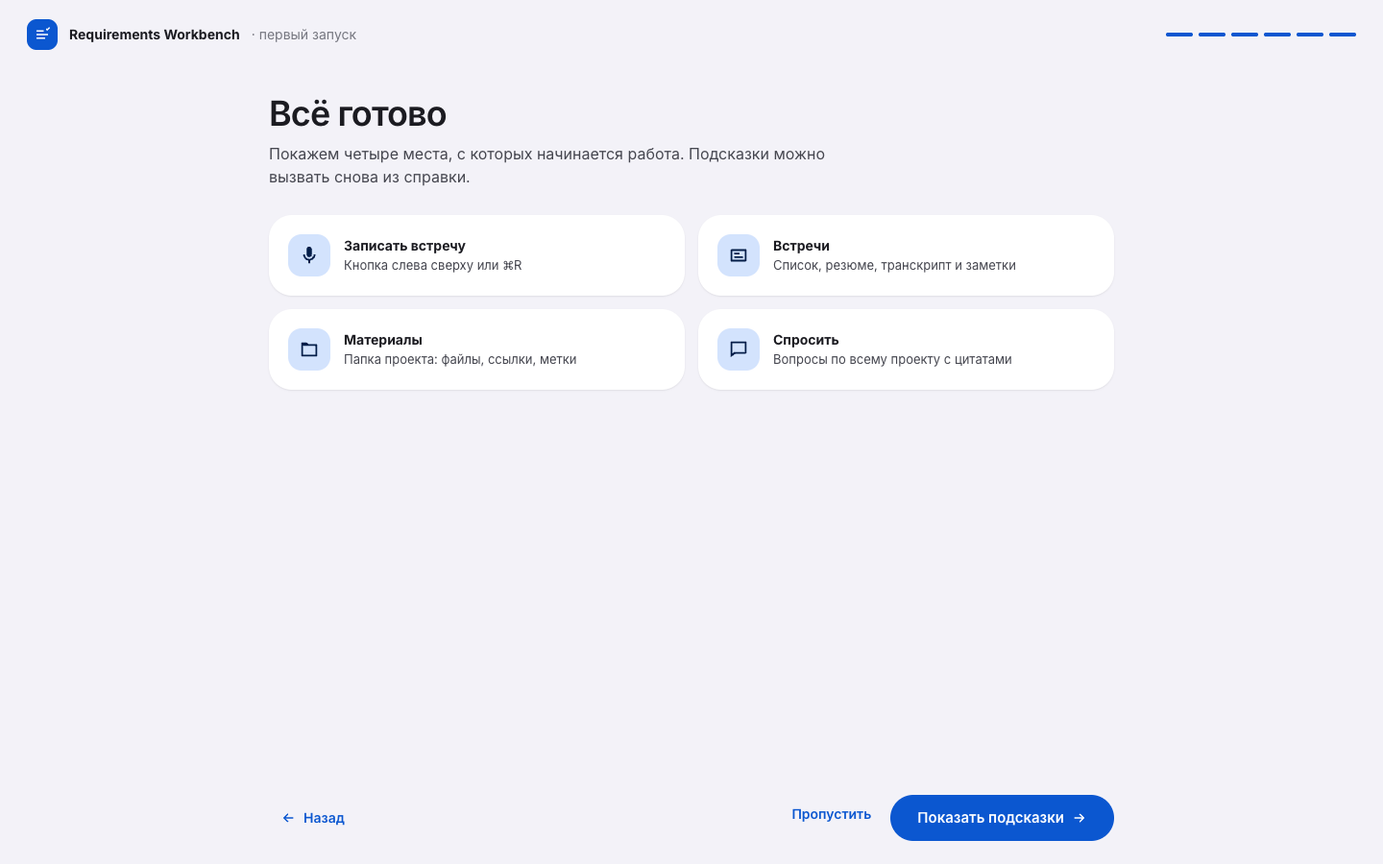
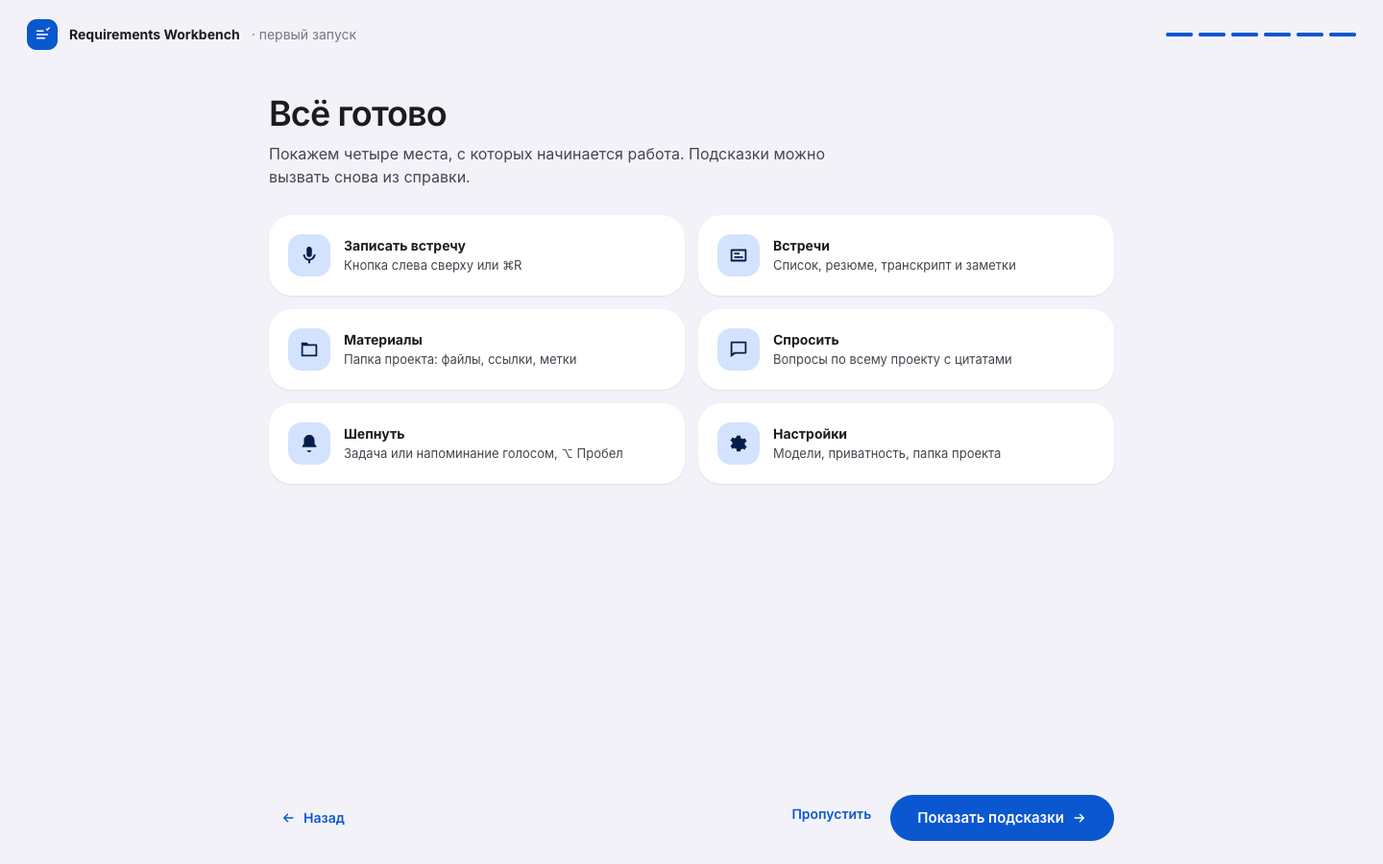
docs(design): Шепнуть voice inbox in the 5.0 brief and prototype

Changed region(s): [[0.1875, 0.4667, 0.4375, 0.56], [0.5, 0.4667, 0.7188, 0.56]]

diff --git a/docs/design/prototype-v5.html b/docs/design/prototype-v5.html
@@ -266,6 +266,39 @@ svg { flex: none; }
 .link:hover { background: var(--surface-2); }
 .link .wl { color: var(--primary); font-weight: 500; }
 
+
+/* ---------- Whisper ---------- */
+.whisper { display: grid; grid-template-columns: minmax(0, 1fr) minmax(360px, 38%); gap: 16px; height: 100%; }
+.wcap { display: flex; flex-direction: column; align-items: center; justify-content: center; padding: 32px; text-align: center; position: relative; min-height: 0; }
+.wbtn { width: 112px; height: 112px; border-radius: 56px; background: var(--primary); color: var(--on-primary); display: grid; place-items: center; box-shadow: var(--shadow-2); transition: transform .15s, background .15s; }
+.wbtn:hover { transform: scale(1.04); }
+.wbtn.live { background: var(--rec); color: #fff; animation: wpulse 1.4s infinite; }
+@keyframes wpulse { 0%,100% { box-shadow: 0 0 0 0 rgba(217,48,37,.35), var(--shadow-2);} 50% { box-shadow: 0 0 0 22px rgba(217,48,37,0), var(--shadow-2);} }
+.wcap h2 { font-size: 22px; font-weight: 600; letter-spacing: -.015em; margin-top: 24px; }
+.wcap .hint { color: var(--text-3); margin-top: 6px; font-size: 13px; }
+.wlive { margin-top: 24px; max-width: 560px; font-size: 18px; line-height: 28px; color: var(--text); min-height: 56px; }
+.wlive .cursor { display: inline-block; width: 2px; height: 20px; background: var(--primary); vertical-align: -3px; margin-left: 2px; animation: blink 1s steps(2) infinite; }
+@keyframes blink { 50% { opacity: 0; } }
+.wres { width: min(620px, 100%); text-align: left; margin-top: 8px; display: grid; gap: 12px; animation: fade .25s; }
+.wres .said { color: var(--text-2); font-size: 15px; line-height: 23px; padding: 14px 18px; border-radius: 16px; background: var(--surface-2); }
+.wres .said small { display: block; color: var(--text-3); font-size: 12px; margin-bottom: 4px; }
+.wparsed { border-radius: 20px; background: var(--surface); box-shadow: inset 0 0 0 2px var(--primary-c); padding: 16px 18px; display: grid; gap: 10px; }
+.wparsed .types { display: flex; gap: 6px; flex-wrap: wrap; }
+.wparsed .title { font-size: 17px; font-weight: 600; outline: none; border-radius: 6px; }
+.wparsed .title:focus { box-shadow: 0 0 0 2px var(--primary); padding: 0 4px; }
+.wparsed .meta { display: flex; gap: 8px; flex-wrap: wrap; align-items: center; color: var(--text-2); font-size: 13px; }
+.wparsed .acts { display: flex; gap: 8px; margin-top: 4px; }
+.wkind { width: 36px; height: 36px; border-radius: 12px; display: grid; place-items: center; flex: none; }
+.wkind.task { background: var(--primary-c); color: var(--on-primary-c); } .wkind.note { background: var(--warn-c); color: var(--warn); } .wkind.remind { background: var(--danger-c); color: var(--danger); } .wkind.idea { background: var(--ok-c); color: var(--ok); }
+.winbox { display: flex; flex-direction: column; min-height: 0; }
+.wsec { font-size: 11px; font-weight: 600; letter-spacing: .06em; text-transform: uppercase; color: var(--text-3); padding: 14px 16px 6px; }
+.witem { display: grid; grid-template-columns: auto 36px minmax(0, 1fr); gap: 12px; align-items: start; padding: 10px 16px; margin: 0 8px; border-radius: 14px; cursor: pointer; }
+.witem:hover { background: var(--surface-2); }
+.witem .cb { margin-top: 9px; } .witem .cb.none { visibility: hidden; }
+.witem .tx { line-height: 20px; } .witem.done .tx { color: var(--text-3); text-decoration: line-through; }
+.witem .m { color: var(--text-3); font-size: 12px; margin-top: 2px; display: flex; gap: 8px; flex-wrap: wrap; }
+.witem .m .due { color: var(--danger); font-weight: 500; } .witem .m .due.ok { color: var(--ok); }
+
 /* ---------- Ask ---------- */
 .ask { display: grid; grid-template-columns: minmax(0, 1fr) 300px; gap: 14px; height: 100%; }
 .chat { display: flex; flex-direction: column; min-height: 0; }
@@ -366,8 +399,9 @@ svg { flex: none; }
   .page-head .actions .outlined, .topbar .status-chip span + *, .topbar .icon-btn[title^="Справка"] { display: none; }
   .status-chip { font-size: 0; gap: 0; padding: 0 10px; } .status-chip .ring { width: 18px; height: 18px; }
   .page-head h1 { font-size: 26px; line-height: 32px; }
-  .meetings, .library, .sess-body, .ask, .settings, .panels { grid-template-columns: 1fr; grid-template-rows: none; }
+  .meetings, .library, .sess-body, .ask, .settings, .panels, .whisper { grid-template-columns: 1fr; grid-template-rows: none; }
   .meetings > .panel, .library > .panel, .ask > .hist, .library .tree, .settings .setnav { display: none; }
+  .whisper .wcap { min-height: 360px; }
   .search { min-width: 0; }
   .onb-top, .onb-body, .onb-bot { padding-left: 16px; padding-right: 16px; }
   .q-card { left: 16px; right: 16px; width: auto; }
@@ -435,6 +469,17 @@ const FILES = [
   { id: 8, name: "FR-12 Проверка дублей по VIN и телефону", ext: "md", folder: "Требования", labels: [], imported: "14 окт", changed: "5 мин назад", size: "1 КБ", ctx: true, back: ["[[Встречи/2026-10-14 Звонок]]", "[[ТЗ v3]]"], preview: "---\nid: FR-12\ntype: functional\nstatus: accepted\nsource: [[Встречи/2026-10-14 Звонок]]\n---\nСистема проверяет VIN и телефон клиента при создании заявки…" },
 ];
 
+
+const WHISPERS = [
+  { id: 1, kind: "task", text: "Отправить Олегу регламент v2 и спросить про утверждение статусов", when: "Сегодня", due: "до 18:00", done: false, project: "Портал дилера" },
+  { id: 2, kind: "remind", text: "Позвонить в дилерский центр насчёт демо", when: "Сегодня", due: "завтра, 10:00", done: false, project: "" },
+  { id: 3, kind: "note", text: "Мысль: конфликт по SLA (2 ч и 4 ч) лучше вынести отдельным вопросом в протокол, а не прятать в ТЗ", when: "Сегодня", due: "", done: false, project: "Портал дилера" },
+  { id: 4, kind: "idea", text: "Для воркшопов делать шаблон «боль → причина → ожидание» прямо в заметках встречи", when: "Вчера", due: "", done: false, project: "" },
+  { id: 5, kind: "task", text: "Проверить, что Jira-токен не протух перед выгрузкой бэклога", when: "Вчера", due: "вчера", done: true, project: "Портал дилера" },
+  { id: 6, kind: "task", text: "Купить переходник USB-C для диктофона", when: "Раньше", due: "", done: true, project: "" },
+];
+const WKIND = { task: ["Задача", "check"], note: ["Заметка", "edit"], remind: ["Напоминание", "bell"], idea: ["Идея", "bolt"] };
+
 /* ---------- State ---------- */
 const S = {
   page: "meetings", theme: localStorage.getItem("wb5.theme") || "", onb: 0, tut: 0,
@@ -443,6 +488,7 @@ const S = {
   paused: false, secs: 1935, qcard: true, notes: "- Дубли заявок: VIN + телефон\n- SLA 2 часа (!)\n- Кто утверждает статус? → уточнить у Олега\n- История изменений",
   perms: { mic: true, sys: false, notif: false }, model: "e4b", dl: 0, disc: { 1: true, 2: true, 3: false },
   setsec: "models", ctxOnly: true, toast: "",
+  wstate: "idle", wtext: "", wkind: "task", wfilter: "all",
 };
 try { if (!localStorage.getItem("wb5.seen")) S.onb = 1; } catch (_) {}
 function theme() { document.documentElement.dataset.theme = S.theme; }
@@ -458,7 +504,7 @@ const fmtSecs = n => `${String(Math.floor(n / 60)).padStart(2, "0")}:${String(n 
 /* ---------- Shell ---------- */
 const NAV = [
   ["meetings", "meet", "Встречи"], ["library", "lib", "Материалы"], ["requirements", "req", "Требования", { badge: 9 }],
-  ["documents", "doc", "Документы", { dot: true }], ["backlog", "tree", "Бэклог"], ["ask", "chat", "Спросить"],
+  ["documents", "doc", "Документы", { dot: true }], ["backlog", "tree", "Бэклог"], ["ask", "chat", "Спросить"], ["whisper", "mic", "Шепнуть"],
 ];
 function shell(content) {
   const act = S.page === "session" ? "meetings" : S.page;
@@ -467,7 +513,7 @@ function shell(content) {
     <nav class="rail" aria-label="Разделы">
       <div class="logo" title="Requirements Workbench">${ic("req", 22)}</div>
       <button class="rec-fab" id="t-rec" title="Записать встречу (⌘R)" onclick="S.page='session';S.paused=false;go('session')"><span class="dot"></span></button>
-      ${NAV.map(([p, i, l, o = {}]) => html`<button class="nav-item ${act === p ? "active" : ""} ${["backlog", "documents"].includes(p) ? "opt" : ""}" id="t-${p}" onclick="go('${p}')">
+      ${NAV.map(([p, i, l, o = {}]) => html`<button class="nav-item ${act === p ? "active" : ""} ${["backlog", "documents", "ask"].includes(p) ? "opt" : ""}" id="t-${p}" onclick="go('${p}')">
         <span class="pill">${ic(i, 22)}</span>${l}${o.badge ? `<span class="badge">${o.badge}</span>` : ""}${o.dot ? `<span class="dotb"></span>` : ""}</button>`).join("")}
       <span class="spacer"></span>
       <button class="nav-item ${act === "settings" ? "active" : ""}" onclick="go('settings')"><span class="pill">${ic("set", 22)}</span>Настройки</button>
@@ -643,6 +689,57 @@ function pageLibrary() {
   </div>`;
 }
 
+
+/* ---------- Whisper: press, speak, get a task / note / reminder. Never touches requirements. ---------- */
+const WSAMPLE = "Напомни завтра в десять позвонить Ирине насчёт истории изменений заявки, и ещё надо отправить Олегу регламент до вечера";
+function pageWhisper() {
+  const items = WHISPERS.filter(w => S.wfilter === "all" || (S.wfilter === "open" ? (w.kind === "task" || w.kind === "remind") && !w.done : w.kind === S.wfilter));
+  const groups = ["Сегодня", "Вчера", "Раньше"].map(g => [g, items.filter(w => w.when === g)]).filter(([, l]) => l.length);
+  const cap = S.wstate === "idle" ? html`
+      <button class="wbtn" onclick="wStart()" title="Говорите (⌥ Пробел)">${ic("mic", 44)}</button>
+      <h2>Нажмите и скажите, что нужно сделать</h2>
+      <p class="hint">Задача, заметка, напоминание или идея — Workbench распознает речь на этом Mac и сам поймёт, что это.<br>Из любого окна: <span class="kbd">⌥ Пробел</span> · из строки меню: значок микрофона</p>`
+    : S.wstate === "listening" ? html`
+      <button class="wbtn live" onclick="wStop()" title="Готово">${ic("stop", 40)}</button>
+      <h2>Слушаю…</h2><p class="hint">Нажмите ещё раз, когда закончите. Пауза в две секунды тоже остановит запись.</p>
+      <div class="wlive"><span id="wlive">${S.wtext}</span><span class="cursor"></span></div>`
+    : html`
+      <div class="wres">
+        <div class="said"><small>Вы сказали · 0:07 · GigaAM, локально</small>${S.wtext}</div>
+        <div class="wparsed">
+          <div class="types">${Object.entries(WKIND).map(([k, [l, i]]) => `<span class="chip sm ${S.wkind === k ? "on" : ""}" onclick="S.wkind='${k}';render()">${ic(i, 14)} ${l}</span>`).join("")}</div>
+          <div class="title" contenteditable="true" spellcheck="false">Позвонить Ирине насчёт истории изменений заявки</div>
+          <div class="meta"><span class="tag danger">${ic("bell", 12)} завтра, 10:00</span><span class="tag">Портал дилера</span><span class="t3">· проект угадан по словам «заявки» и «Ирина»</span></div>
+          <div class="meta t3" style="font-size:12px">${ic("plus", 12)} Ещё одно в этой же фразе: <b class="t2">Задача · отправить Олегу регламент · до 18:00</b> — создать обе</div>
+          <div class="acts"><button class="btn filled" onclick="wSave()">Сохранить 2 ${ic("check", 16)}</button><button class="btn" onclick="wStart()">${ic("mic", 16)} Переговорить</button><button class="btn text" onclick="S.wstate='idle';render()">Отменить</button></div>
+        </div>
+        <p class="t3" style="font-size:12px;text-align:center">Это личный ящик. В требования, документы и Jira отсюда ничего не попадает, пока вы сами не нажмёте «Сделать вопросом».</p>
+      </div>`;
+  return html`
+  ${head("Шепнуть", "Личный ящик: задачи, заметки и напоминания голосом · отдельно от требований", html`<div class="seg">${[["all", "Все"], ["open", "Открытые"], ["task", "Задачи"], ["note", "Заметки"], ["remind", "Напоминания"]].map(([k, l]) => `<button class="${S.wfilter === k ? "on" : ""}" onclick="S.wfilter='${k}';render()">${l}</button>`).join("")}</div>`)}
+  <div class="body whisper">
+    <div class="card wcap" id="t-whisper">${cap}</div>
+    <div class="card winbox">
+      <div class="list-tools"><label class="search sm grow">${ic("search", 16)}<input placeholder="Искать в ящике"></label><span class="t3" style="font-size:12px">${WHISPERS.filter(w => !w.done && w.kind !== "note" && w.kind !== "idea").length} открытых</span></div>
+      <div class="scroll grow" style="padding-bottom:8px">
+        ${groups.map(([g, l]) => `<div class="wsec">${g}</div>` + l.map(w => `<div class="witem ${w.done ? "done" : ""}">
+          <span class="cb ${w.done ? "on" : ""} ${w.kind === "note" || w.kind === "idea" ? "none" : ""}" onclick="WHISPERS.find(x=>x.id===${w.id}).done=!${w.done};render()">${w.done ? ic("check", 14) : ""}</span>
+          <span class="wkind ${w.kind}">${ic(WKIND[w.kind][1], 18)}</span>
+          <div><div class="tx">${w.text}</div><div class="m"><span>${WKIND[w.kind][0]}</span>${w.due ? `<span class="due ${w.done ? "ok" : ""}">${ic("bell", 11)} ${w.due}</span>` : ""}${w.project ? `<span>· ${w.project}</span>` : ""}<span class="grow"></span><span style="color:var(--primary);cursor:pointer" onclick="toast('Создан вопрос Q-10 в проекте «Портал дилера»')">Сделать вопросом</span></div></div>
+        </div>`).join("")).join("") || `<div class="empty">Пусто. Скажите что-нибудь.</div>`}
+      </div>
+    </div>
+  </div>`;
+}
+let wTimer = null;
+window.wStart = () => { clearTimeout(wTimer); S.wstate = "listening"; S.wtext = ""; render(); const words = WSAMPLE.split(" "); let i = 0;
+  const tick = () => { if (S.wstate !== "listening") return; S.wtext = words.slice(0, ++i).join(" "); const el = document.getElementById("wlive"); if (el) el.textContent = S.wtext; if (i < words.length) wTimer = setTimeout(tick, 170 + Math.random() * 120); else wTimer = setTimeout(wStop, 900); };
+  wTimer = setTimeout(tick, 500); };
+window.wStop = () => { clearTimeout(wTimer); S.wtext = S.wtext || WSAMPLE; S.wstate = "result"; S.wkind = "remind"; render(); };
+window.wSave = () => { WHISPERS.unshift({ id: Date.now(), kind: "task", text: "Отправить Олегу регламент", when: "Сегодня", due: "до 18:00", done: false, project: "Портал дилера" },
+  { id: Date.now() + 1, kind: "remind", text: "Позвонить Ирине насчёт истории изменений заявки", when: "Сегодня", due: "завтра, 10:00", done: false, project: "Портал дилера" });
+  S.wstate = "idle"; render(); toast("Сохранено: напоминание и задача · уведомление завтра в 10:00"); };
+
 /* ---------- Ask ---------- */
 function pageAsk() {
   return html`
@@ -712,7 +809,7 @@ function pageSettings() {
       <div class="row"><div class="l"><b>Микрофон</b><small>MacBook Pro Microphone</small></div><button class="btn sm">Сменить</button></div>
       <div class="row"><div class="l"><b>Останавливать при тишине</b><small>Через 10 минут без речи · с уведомлением</small></div><span class="switch on"></span></div>
       <div class="row"><div class="l"><b>Требования на лету</b><small>Извлекать требования из последних минут во время записи</small></div><span class="switch on"></span></div></div>`
-  : S.setsec === "keys" ? html`<div class="card setcard"><h3>Горячие клавиши</h3><div class="d">Дважды кликните, чтобы изменить</div>${[["Записать встречу", "⌘ R"], ["Показать окно", "⌘ ⇧ W"], ["Поиск по проекту", "⌘ K"], ["Спросить", "⌘ J"], ["Тема", "⌘ ⇧ L"]].map(([a, k]) => `<div class="row"><div class="l"><b>${a}</b></div><span class="kbd">${k}</span></div>`).join("")}</div>`
+  : S.setsec === "keys" ? html`<div class="card setcard"><h3>Горячие клавиши</h3><div class="d">Дважды кликните, чтобы изменить</div>${[["Записать встречу", "⌘ R"], ["Шепнуть", "⌥ Пробел"], ["Показать окно", "⌘ ⇧ W"], ["Поиск по проекту", "⌘ K"], ["Спросить", "⌘ J"], ["Тема", "⌘ ⇧ L"]].map(([a, k]) => `<div class="row"><div class="l"><b>${a}</b></div><span class="kbd">${k}</span></div>`).join("")}</div>`
   : html`<div class="card setcard"><h3>Jira</h3><div class="d">Вход через браузер, токены не хранятся в системной связке</div><div class="row"><div class="l"><b>sundocarme-1787295249165.atlassian.net</b><small>Проект SCRUM · подключено</small></div><button class="btn sm">Выйти</button></div></div>`;
   return html`${head("Настройки", "")}<div class="body settings"><div class="card setnav" style="padding:10px 8px;align-self:start">${secs.map(([k, i, l]) => `<div class="node ${S.setsec === k ? "on" : ""}" onclick="S.setsec='${k}';render()">${ic(i, 18)}${l}</div>`).join("")}</div><div class="setcards scroll">${body}</div></div>`;
 }
@@ -764,7 +861,7 @@ function onboarding() {
     next = `Добавить ${Object.values(S.disc).filter(Boolean).length} и продолжить`;
   } else {
     body = html`<h1>Всё готово</h1><p class="lead">Покажем четыре места, с которых начинается работа. Подсказки можно вызвать снова из справки.</p>
-    <div class="panels" style="grid-template-columns:repeat(2,1fr)">${[["mic", "Записать встречу", "Кнопка слева сверху или ⌘R"], ["meet", "Встречи", "Список, резюме, транскрипт и заметки"], ["lib", "Материалы", "Папка проекта: файлы, ссылки, метки"], ["chat", "Спросить", "Вопросы по всему проекту с цитатами"]].map(([i, t, d]) => `<div class="card" style="padding:20px;display:flex;gap:14px;align-items:center"><span style="width:44px;height:44px;border-radius:14px;background:var(--primary-c);color:var(--on-primary-c);display:grid;place-items:center">${ic(i, 22)}</span><div><b>${t}</b><div class="t2" style="font-size:13px">${d}</div></div></div>`).join("")}</div>`;
+    <div class="panels" style="grid-template-columns:repeat(2,1fr)">${[["mic", "Записать встречу", "Кнопка слева сверху или ⌘R"], ["meet", "Встречи", "Список, резюме, транскрипт и заметки"], ["lib", "Материалы", "Папка проекта: файлы, ссылки, метки"], ["chat", "Спросить", "Вопросы по всему проекту с цитатами"], ["bell", "Шепнуть", "Задача или напоминание голосом, ⌥ Пробел"], ["set", "Настройки", "Модели, приватность, папка проекта"]].map(([i, t, d]) => `<div class="card" style="padding:20px;display:flex;gap:14px;align-items:center"><span style="width:44px;height:44px;border-radius:14px;background:var(--primary-c);color:var(--on-primary-c);display:grid;place-items:center">${ic(i, 22)}</span><div><b>${t}</b><div class="t2" style="font-size:13px">${d}</div></div></div>`).join("")}</div>`;
     next = "Показать подсказки"; nextFn = "finishOnb(true)"; skip = `<button class="btn text" onclick="finishOnb(false)">Пропустить</button>`;
   }
   return html`<div class="onb"><div class="onb-top"><span style="width:32px;height:32px;border-radius:10px;background:var(--primary);color:var(--on-primary);display:grid;place-items:center">${ic("req", 18)}</span><b>Requirements Workbench</b><span class="t3">· первый запуск</span>${steps}</div>
@@ -775,7 +872,7 @@ window.dlTick = () => { if (S.onb !== 4 || S.dl >= 100) return; S.dl = Math.min(
 window.finishOnb = tut => { S.onb = 0; try { localStorage.setItem("wb5.seen", "1"); } catch (_) {} S.tut = tut ? 1 : 0; go("meetings"); render(); };
 
 /* ---------- Tutorial ---------- */
-const TUT = [["t-rec", "Записать встречу", "Одна кнопка: микрофон и системный звук пишутся раздельно, транскрипт и требования появляются по ходу встречи."], ["t-list", "Встречи", "Все записи, импорты и тексты проекта. Переименуйте прямо в списке, ищите по словам из разговора."], ["t-library", "Материалы", "Папка проекта на диске. Добавляйте документы и ссылки — ИИ будет их цитировать."], ["t-ask", "Спросить", "Вопрос по всему проекту: ответ с цитатами из встреч и файлов, всё считается локально."]];
+const TUT = [["t-rec", "Записать встречу", "Одна кнопка: микрофон и системный звук пишутся раздельно, транскрипт и требования появляются по ходу встречи."], ["t-whisper", "Шепнуть", "Скажите задачу, заметку или напоминание — они лягут в личный ящик и не смешаются с требованиями. ⌥ Пробел из любого окна."], ["t-list", "Встречи", "Все записи, импорты и тексты проекта. Переименуйте прямо в списке, ищите по словам из разговора."], ["t-library", "Материалы", "Папка проекта на диске. Добавляйте документы и ссылки — ИИ будет их цитировать."], ["t-ask", "Спросить", "Вопрос по всему проекту: ответ с цитатами из встреч и файлов, всё считается локально."]];
 function tutorial() {
   const [id, t, d] = TUT[S.tut - 1];
   const el = document.getElementById(id);
@@ -786,7 +883,7 @@ function tutorial() {
 }
 
 /* ---------- Router ---------- */
-const PAGES = { meetings: pageMeetings, session: pageSession, library: pageLibrary, ask: pageAsk, requirements: pageRequirements, documents: pageDocuments, backlog: pageBacklog, settings: pageSettings };
+const PAGES = { meetings: pageMeetings, session: pageSession, library: pageLibrary, ask: pageAsk, whisper: pageWhisper, requirements: pageRequirements, documents: pageDocuments, backlog: pageBacklog, settings: pageSettings };
 function render() {
   const h = location.hash.replace("#", "") || "meetings";
   if (h === "onboarding") { S.onb = S.onb || 1; }
@@ -799,7 +896,8 @@ function render() {
 addEventListener("hashchange", () => { if (location.hash === "#onboarding") S.onb = 1; render(); });
 addEventListener("resize", () => { if (S.tut) render(); });
 addEventListener("keydown", e => {
-  if ((e.metaKey || e.ctrlKey) && e.key >= "1" && e.key <= "8") { e.preventDefault(); go(["meetings", "library", "requirements", "documents", "backlog", "ask", "settings", "session"][+e.key - 1]); }
+  if ((e.metaKey || e.ctrlKey) && e.key >= "1" && e.key <= "9") { e.preventDefault(); go(["meetings", "library", "requirements", "documents", "backlog", "ask", "settings", "session", "whisper"][+e.key - 1]); }
+  if (e.altKey && e.code === "Space") { e.preventDefault(); go("whisper"); setTimeout(() => wStart(), 50); }
   if ((e.metaKey || e.ctrlKey) && e.shiftKey && e.key.toLowerCase() === "l") { e.preventDefault(); S.theme = S.theme === "dark" ? "light" : "dark"; localStorage.setItem("wb5.theme", S.theme); theme(); }
   if (e.key === "Escape" && S.tut) { S.tut = 0; render(); }
 });

diff --git a/docs/design/v5-foresight.md b/docs/design/v5-foresight.md
@@ -136,7 +136,34 @@ Code: `core/vault.py` (layout, writers, watcher), `core/index.py` (FTS5 + local 
 the existing local LLM runtime), routes `/api/projects/<id>/vault/*`, `/api/ask`, a `Library.svelte`
 and `Ask.svelte`.
 
-## 5. Order of work
+## 5. Шепнуть: voice capture for the analyst, not for the project
+
+Taken from the quick voice-memo apps (HiNotes and the like): press, speak, and the thing you said
+becomes a task, a note, a reminder or an idea. It lives in a personal inbox that is separate from
+every project. Nothing from it reaches requirements, documents or Jira unless the user presses
+"Сделать вопросом" on an item.
+
+Decisions:
+
+- **One screen (`#/whisper`)**, one big button. Idle: "Нажмите и скажите, что нужно сделать".
+  Listening: the words appear as GigaAM recognises them, a second press or two seconds of silence
+  stops. Result: what was said, the parsed card (type chips Задача / Заметка / Напоминание / Идея,
+  an editable title, the due time parsed from speech, the project guessed from words), and when one
+  utterance holds two things, both are offered. "Сохранить", "Переговорить", "Отменить".
+- **Global shortcut** (⌥ Space) and a menu-bar microphone: the window comes forward on the whisper
+  screen already listening. Reminders fire as macOS notifications.
+- **Inbox** on the right: grouped Сегодня / Вчера / Раньше, filters Все / Открытые / Задачи /
+  Заметки / Напоминания, a checkbox on tasks and reminders, search.
+- **Storage**: a `whispers` table (kind, text, title, due_at, done, project_id nullable,
+  audio file) and a `Шепот/` folder in the vault root, outside any project, one `.md` per item.
+  The audio clip is kept next to it.
+- **Parsing** runs through the local LLM with a small fixed prompt (type, title, due, project
+  candidates); the raw transcript is always kept so a wrong parse costs one edit.
+
+Code: `core/whisper.py` (capture → GigaAM → parse → store), `Whisper.svelte`, a global hotkey in
+`desktop_api.py`, notifications through the existing macOS bridge.
+
+## 6. Order of work
 
 Each release ships on its own and keeps every existing test green.
 
@@ -145,12 +172,15 @@ Each release ships on its own and keeps every existing test green.
 | 5.0 | Shell: tokens, bundled font, rail, headline rows, status chip, dark | `tokens.css`, `app.css`, `App.svelte`, `Screen.svelte`, new `Rail.svelte` |
 | 5.1 | Meetings home with details panel; title editable everywhere; search | `Meetings.svelte`, `/api/sources` search, FTS5 |
 | 5.2 | Session screen: notes pane, live requirements, recap styles, auto-stop | `Transcript.svelte` → `Meeting.svelte`, `notes` column, extractor window |
-| 5.3 | Onboarding gate and tutorial | `FirstRun` route, `/api/discover`, `setup-state.json` |
-| 5.4 | Vault on disk with watcher; Library page | `core/vault.py`, `Library.svelte` |
-| 5.5 | Local index and Спросить with citations | `core/index.py`, `Ask.svelte` |
+| 5.3 | Шепнуть: capture, parse, inbox, global shortcut | `core/whisper.py`, `Whisper.svelte`, `whispers` table |
+| 5.4 | Onboarding gate and tutorial | `FirstRun` route, `/api/discover`, `setup-state.json` |
+| 5.5 | Vault on disk with watcher; Library page | `core/vault.py`, `Library.svelte` |
+| 5.6 | Local index and Спросить with citations | `core/index.py`, `Ask.svelte` |
 
-## 6. Assumptions and open points
+## 7. Assumptions and open points
 
+- Assumed: the whisper inbox is personal and cross-project; items can be linked to a project but never
+  live inside one.
 - Assumed: the app stays Russian-first with the English set; the prototype is Russian only.
 - Assumed: we bundle Inter rather than license Google Sans. If you prefer the system font, only
   the headline weight changes.

diff --git a/docs/design/README.md b/docs/design/README.md
@@ -67,7 +67,7 @@ Steps 1–4 are low-risk polish that fixes every AA failure. Steps 5–6 change 
 
 | File | What |
 |---|---|
-| [`v5-foresight.md`](v5-foresight.md) | Brief for the next shell: Material-style rail and tonal cards, Meetings as the home with a notes pane in the session, a real first-run gate, and an Obsidian-like vault for materials. Release order 5.0–5.5 |
+| [`v5-foresight.md`](v5-foresight.md) | Brief for the next shell: Material-style rail and tonal cards, Meetings as the home with a notes pane in the session, a voice inbox (Шепнуть), a real first-run gate, and an Obsidian-like vault for materials. Release order 5.0–5.6 |
 | [`prototype-v5.html`](prototype-v5.html) | Clickable prototype, no dependencies. `#onboarding` restarts the first run; ⌘1…⌘8 switch pages; the moon toggles dark |
 | `prototype-v5-screens/` | Screenshots of every page at 1440, light and dark, plus a phone width |
 | [`../research/foresight-teardown.md`](../research/foresight-teardown.md) | The teardown the brief is based on |
